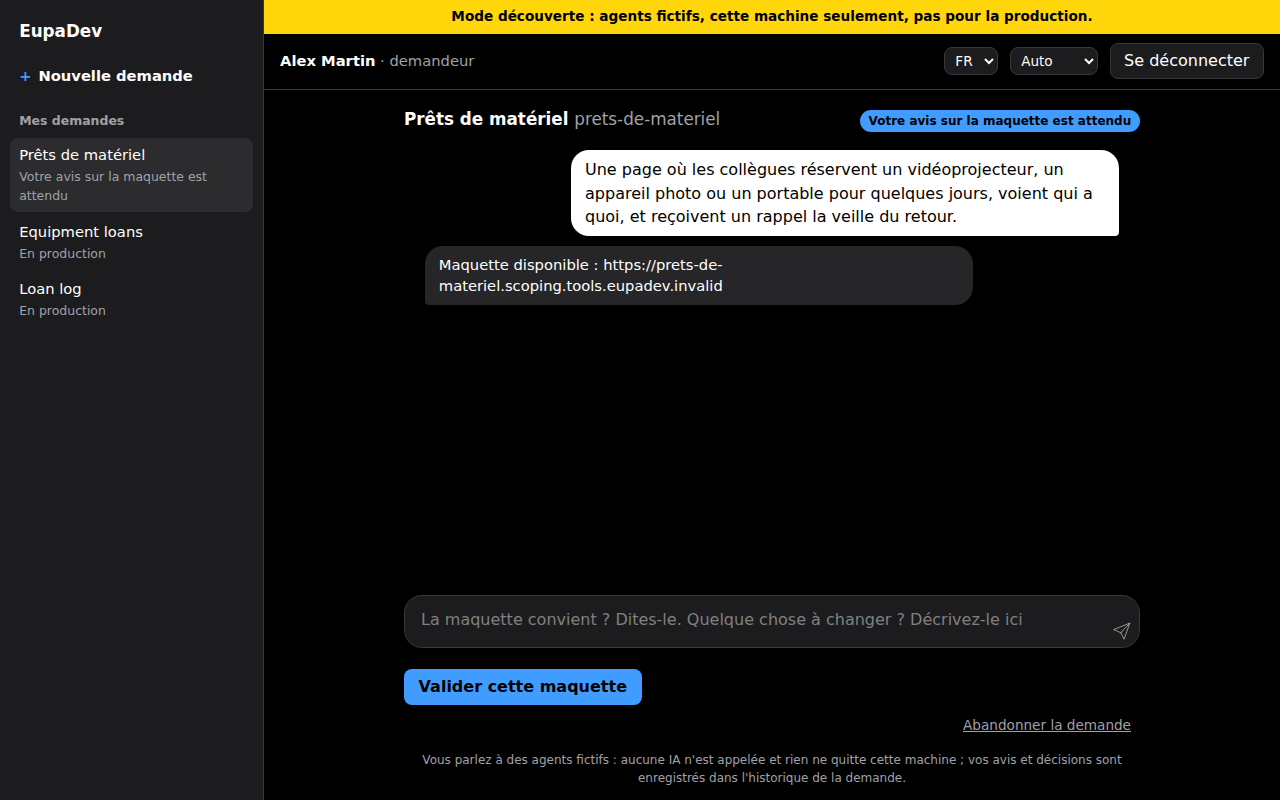
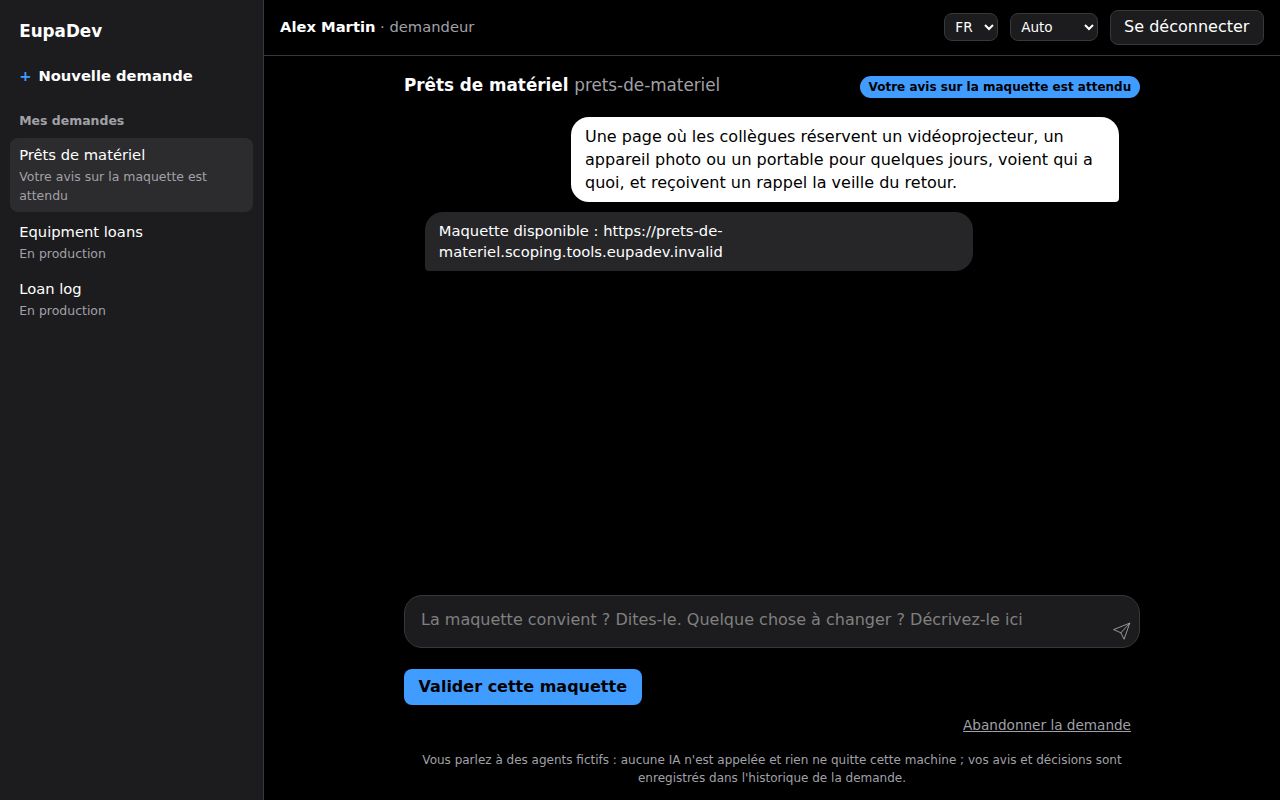
Sync with the development repository (2026-11-14)
Assisted-by: Claude Opus 5.5

Changed region(s): [[0.1875, 0.0, 1.0, 0.4062]]

diff --git a/tool-template/docs/fr/agents/contract.md b/tool-template/docs/fr/agents/contract.md
@@ -4,17 +4,16 @@
 
 Tu transformes le périmètre validé en deux livrables sur lesquels tous les
 autres rôles s'appuient : `openapi.yaml` à la racine du dépôt, et les
-features Gherkin. Une fois validés, ils sont figés : tests, puis builder,
-travaillent face à eux sans se parler.
+features Gherkin. Une fois validés, ils sont figés ; tests et builder en partent.
 
 ## Entrées
 - `docs/spec.md` et `docs/DECISIONS.md`, validés par le demandeur ; les pages de la maquette dans `web/`.
 - L'outil de référence dans `/tmp/task/example/` : son `openapi.yaml` et ses
-  `tests/acceptance/features/` montrent la forme attendue. Imite-les.
-- Ta branche ; poursuis un contrat partiel laissé par une tentative précédente.
-- `previous_attempt` dans les données de la tâche, s'il y en a une : pourquoi
-  cette tentative n'a pas livré (sa raison exacte, par exemple le linter du socle
-  qui refuse `openapi.yaml`). Corrige cela d'abord.
+  `tests/acceptance/features/` montrent la forme attendue.
+- Ta branche ; poursuis tout contrat partiel laissé là.
+- `previous_attempt` dans les données de la tâche, le cas échéant : pourquoi
+  cette tentative n'a pas livré (par exemple le linter du socle qui refuse
+  `openapi.yaml`). Corrige cela d'abord.
 
 ## Sortie
 - `openapi.yaml` : chaque opération dont les écrans ont besoin, chacune avec
@@ -38,21 +37,23 @@ travaillent face à eux sans se parler.
 ## Étapes
 1. Liste chaque écran, action et entité de la spec et de la maquette.
 2. Déduis les opérations : une ressource par entité, verbes CRUD stricts, un changement de statut est un PATCH.
-3. Écris les features ; chaque scénario nomme en commentaire l'`operationId` qu'il exerce.
-4. Vérifie dans les deux sens : chaque critère a un scénario ; chaque
+3. Chaque changement de statut : ses états de départ permis (un objet sorti ne
+   peut pas ressortir) ; chaque date : passé permis ou non. Chaque refus : un code
+   d'erreur, un scénario.
+4. Écris les features ; chaque scénario nomme en commentaire l'`operationId` qu'il exerce.
+5. Vérifie dans les deux sens : chaque critère a un scénario ; chaque
    scénario et chaque écran a ses opérations.
 
 ## Règles du rôle
 - Le linter du socle refuse un contrat incomplet (schémas ouverts, chaînes,
   tableaux ou nombres non bornés, réponses d'erreur manquantes) ; son message dit quoi ajouter.
-- N'invente pas ce que la spec ne dit pas : une valeur, un rôle ou un type
-  manquant donne `blocked` avec la question exacte.
+- N'invente pas ce que la spec ne dit pas : une valeur, un rôle, un type,
+  un état de départ ou une règle de date manquant donne `blocked` avec la question exacte.
 - Ni code, ni définitions d'étapes, ni modification de `docs/spec.md`.
 
 ## Terminé quand
-- `pnpm run verify` passe : il lance le contrôle du contrat par le socle
-  (`readContract('openapi.yaml')`).
-- Chaque critère correspond à exactement un scénario, dans les deux sens ; aucune question ne reste ouverte.
+- `pnpm run verify` passe (le contrôle du contrat par le socle).
+- Chaque critère correspond à exactement un scénario ; aucune question ne reste ouverte.
 
 ## Rapport
 `files_changed` : le contrat et les features. `assumptions` : chaque choix de

diff --git a/tool-template/agents/contract.md b/tool-template/agents/contract.md
@@ -2,16 +2,15 @@
 
 You turn the validated scope into the two artefacts every other role builds
 from: `openapi.yaml` at the root of the repository, and the Gherkin features.
-Once validated they are frozen: tests, then builder, work against them
-without talking to each other.
+Once validated they are frozen; tests and builder work from them.
 
 ## Inputs
 - `docs/spec.md` and `docs/DECISIONS.md`, validated by the requester; the mock-up pages in `web/`.
 - The reference tool in `/tmp/task/example/`: its `openapi.yaml` and
-  `tests/acceptance/features/` show the expected shape. Imitate them.
-- Your branch; continue a partial contract left by a previous attempt.
-- `previous_attempt` in the task data, when there is one: why that attempt did
-  not deliver (its exact reason, e.g. the core's linter refusing `openapi.yaml`). Fix that first.
+  `tests/acceptance/features/` show the expected shape.
+- Your branch; continue any partial contract left there.
+- `previous_attempt` in the task data, if any: why that attempt did not
+  deliver (e.g. the core's linter refusing `openapi.yaml`). Fix that first.
 
 ## Output
 - `openapi.yaml`: every operation the screens need, each with an
@@ -34,21 +33,22 @@ without talking to each other.
 ## Steps
 1. List every screen, action and entity of the spec and the mock-up.
 2. Derive the operations: one resource per entity, strict CRUD verbs, a status change is a PATCH.
-3. Write the features; each scenario names in a comment the `operationId` it exercises.
-4. Cross-check both ways: every criterion has one scenario; every scenario
+3. Each status change: its allowed starting states (an item out cannot go out
+   again); each date: past allowed or not. Each refusal: an error code, a scenario.
+4. Write the features; each scenario names in a comment the `operationId` it exercises.
+5. Cross-check both ways: every criterion has one scenario; every scenario
    and every screen has its operations.
 
 ## Rules of the role
 - The core's linter refuses an incomplete contract (open schemas, unbounded
   strings, arrays or numbers, missing error responses); its message says what to add.
-- Do not invent what the spec does not say: a missing value, role or field
-  type means `blocked` with the exact question.
+- Do not invent what the spec does not say: a missing value, role, field
+  type, starting state or date rule means `blocked` with the exact question.
 - No code, no step definitions, no change to `docs/spec.md`.
 
 ## Done when
-- `pnpm run verify` passes: it runs the core's contract check
-  (`readContract('openapi.yaml')`).
-- Every criterion maps to exactly one scenario, both ways; no question remains open.
+- `pnpm run verify` passes (the core's contract check).
+- Every criterion maps to exactly one scenario; no question remains open.
 
 ## Report
 `files_changed`: the contract and the features. `assumptions`: each

diff --git a/docs/ai-error-log.md b/docs/ai-error-log.md
@@ -7,6 +7,7 @@ first. "Cost if missed" is our estimate.
 
 | Date | What the AI did | Caught by | Cost if missed |
 |---|---|---|---|
+| 2026-11-13 | The agents of cycle 9 (Equipment Management, in Prod) let the equipment manager hand over an item that was still out and late, and accepted a booking dated in the past: the spec said nothing on either, and the contract role never asked. | Human: a hand test of the tool in Prod. | Two loans of one item at once in a real tool. The contract role now lists, for each status change, the states it starts from and, for each date, whether the past is allowed, or asks. |
 | 2026-11-13 | To reach a tool in Prod, the AI told the maintainer to give himself a role in the Keycloak console at `https://auth.<domain>/admin`, realm `tools`: that console is never published (404 by design, tunnel only), and a person added there by hand is a drift `verify-keycloak.yml` turns red (realm `tools` == `realm-test.json`). | Human: the page answered 404. | A hand-made account outside the code, and a red Keycloak check afterwards. |
 | 2026-11-11 | The stricter refusal check of `verify-forge.yml`, written without a real refusal at hand, kept only git's `remote:`/`fatal:`/`error:` lines and knew no "Repository not found": 11 genuine refusals of the forge (protected files, repositories hidden from the agent) read as unproven. | A real run on the lab (`verify-forge.yml`). | None: the check failed red, not green; it now also keeps the ` ! [remote rejected]` line and accepts "not found" only once the admin account sees the repository. |
 | 2026-11-11 | Over the whole project, the AI silenced checks line by line (54 inline waivers such as `# noqa`, `shellcheck disable`, `@ts-expect-error`, plus `failed_when: false` and `|| true`) with no registry, and ran no linter on about 20 of them. None hid a false green yet, but four could have: the engine image signature was skipped on a later pass if a refused image stayed on the VM, two "no secret in docker inspect" tests passed when the container was missing, and a forge trial counted any network error as a refusal. | Human: the maintainer asked how many checks could be silenced; then an independent audit read every waiver. | An unsigned engine image deployed, or a secret leak reported as absent. |

diff --git a/README.fr.md b/README.fr.md
@@ -12,14 +12,14 @@
 
 </div>
 
-<!-- screenshots: taken from the discovery mode by `node tests/install/screenshots.mjs`, 1280x800, dark theme -->
+<!-- screenshots: taken from the discovery mode by `node tests/install/screenshots.mjs`, 1280x800, dark theme, discovery banner hidden -->
 | ![Le formulaire de nouvelle demande : nom de l'outil, nom court, service propriétaire et le besoin en quelques mots.](docs/assets/screenshots/request.fr.png) | ![Le chat du demandeur : le lien de la maquette de l'agent de cadrage, le bouton « Valider cette maquette ».](docs/assets/screenshots/mockup.fr.png) |
 |:--:|:--:|
 | Un salarié décrit l'outil dont il a besoin | L'agent de cadrage répond par une maquette à valider ou corriger |
 | ![La carte Gate 1 de l'admin : nom et adresse de l'outil, description pour le catalogue, Approuver, correction, refuser.](docs/assets/screenshots/gate1.fr.png) | ![Le chat du demandeur à la fin : maquette, Preview avec son empreinte, « outil en production », badge En production.](docs/assets/screenshots/production.fr.png) |
 | Gate 1 : la DSI nomme l'outil et le laisse continuer | Preview acceptée, Gate 2 approuvée : l'outil est en production |
 
-<sub>Écrans du [mode découverte](docs/install.md) : des agents fictifs sur une seule machine, comme le bandeau le dit ; [les mails de ce cycle](docs/assets/screenshots/mails.fr.png) tombent dans un piège à mails local.</sub>
+<sub>[Les mails de ce cycle](docs/assets/screenshots/mails.fr.png) : chaque étape et chaque gate arrive par mail au demandeur et à l'admin.</sub>
 
 | ![Le catalogue de l'outil généré : les articles en cartes avec leur catégorie, leur durée de prêt maximale et leur statut, filtres par catégorie, texte et disponibilité.](docs/assets/screenshots/tool-catalogue.png) | ![Son tableau de bord : articles sortis, en retard (en rouge) et disponibles, et les mêmes comptes par catégorie.](docs/assets/screenshots/tool-dashboard.png) | ![Son guichet de remise : réservations à remettre et prêts à reprendre, pour le gestionnaire du matériel.](docs/assets/screenshots/tool-pickups.png) |
 |:--:|:--:|:--:|

diff --git a/README.md b/README.md
@@ -12,14 +12,14 @@
 
 </div>
 
-<!-- screenshots: taken from the discovery mode by `node tests/install/screenshots.mjs`, 1280x800, dark theme -->
+<!-- screenshots: taken from the discovery mode by `node tests/install/screenshots.mjs`, 1280x800, dark theme, discovery banner hidden -->
 | ![The new-request form: tool name, short name, owning service and the need in plain words.](docs/assets/screenshots/request.png) | ![The requester's chat: the scoping agent's mock-up link, the "Approve this mock-up" button.](docs/assets/screenshots/mockup.png) |
 |:--:|:--:|
 | An employee describes the tool they need | The scoping agent answers with a mock-up to approve or correct |
 | ![The admin's Gate 1 card: the tool's name and address, the catalogue description, Approve, correction, refuse.](docs/assets/screenshots/gate1.png) | ![The requester's chat at the end: mock-up, Preview with its digest, "tool in production", badge In production.](docs/assets/screenshots/production.png) |
 | Gate 1: the IT department names the tool and lets it go on | Preview accepted, Gate 2 approved: the tool is in production |
 
-<sub>Screens of the [discovery mode](docs/install.md): made-up agents on one machine, as the banner says; [the mails of that cycle](docs/assets/screenshots/mails.png) land in a local mail catcher.</sub>
+<sub>[The mails of that cycle](docs/assets/screenshots/mails.png): each step and each gate reaches the requester and the admin by mail.</sub>
 
 | ![The catalogue of the generated tool: items as cards with their category, maximum loan and status, filters by category, text and availability.](docs/assets/screenshots/tool-catalogue.png) | ![Its dashboard: items out, late (in red) and available, and the same counts per category.](docs/assets/screenshots/tool-dashboard.png) | ![Its pick-up desk: bookings to hand over and loans to take back, for the equipment manager.](docs/assets/screenshots/tool-pickups.png) |
 |:--:|:--:|:--:|
